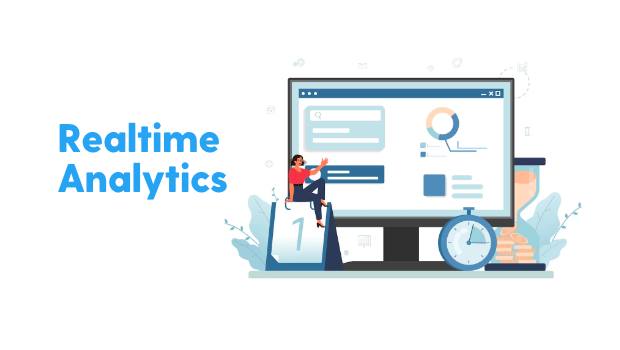
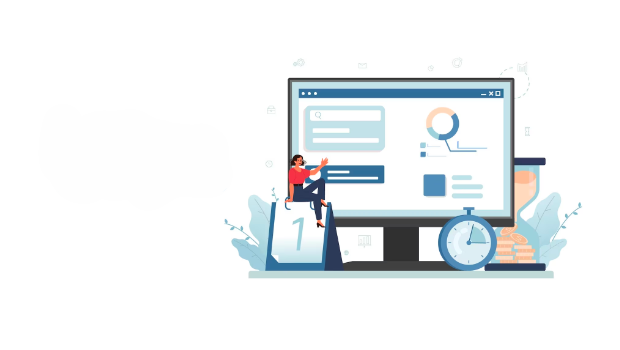
dashboard added along with homepage modification

Changed region(s): [[0.0919, 0.3429, 0.3677, 0.5714]]

diff --git a/src/components/Dashboard/Dashboard.css b/src/components/Dashboard/Dashboard.css
@@ -1,0 +1,123 @@
+.dashboard {
+  padding: 4rem 5%;
+  background: #f8f9ff;
+}
+
+.dashboard-header {
+  text-align: center;
+  margin-bottom: 2.5rem;
+}
+
+.dashboard-header h2 {
+  font-size: 2.2rem;
+  font-weight: 800;
+  color: #1a1a2e;
+  margin-bottom: 0.5rem;
+}
+
+.dashboard-header p {
+  color: #666;
+  font-size: 1.05rem;
+}
+
+.dashboard-cards {
+  display: grid;
+  grid-template-columns: repeat(auto-fit, minmax(240px, 1fr));
+  gap: 1.5rem;
+  margin-bottom: 2.5rem;
+}
+
+.dash-card {
+  display: flex;
+  align-items: center;
+  gap: 1.2rem;
+  padding: 2rem;
+  border-radius: 16px;
+  box-shadow: 0 4px 20px rgba(0, 0, 0, 0.08);
+  transition: transform 0.3s;
+}
+
+.dash-card:hover {
+  transform: translateY(-4px);
+}
+
+.dash-card.total {
+  background: linear-gradient(135deg, #667eea, #764ba2);
+  color: white;
+}
+
+.dash-card.fake {
+  background: linear-gradient(135deg, #ff6b6b, #ee0979);
+  color: white;
+}
+
+.dash-card.real {
+  background: linear-gradient(135deg, #11998e, #38ef7d);
+  color: white;
+}
+
+.dash-icon {
+  font-size: 2.8rem;
+}
+
+.dash-info {
+  display: flex;
+  flex-direction: column;
+  gap: 0.2rem;
+}
+
+.dash-label {
+  font-size: 0.95rem;
+  opacity: 0.9;
+  font-weight: 500;
+}
+
+.dash-value {
+  font-size: 2.2rem;
+  font-weight: 800;
+  line-height: 1;
+}
+
+.dash-percent {
+  font-size: 0.85rem;
+  opacity: 0.85;
+}
+
+.dashboard-bar {
+  background: white;
+  border-radius: 16px;
+  padding: 1.8rem 2rem;
+  box-shadow: 0 4px 20px rgba(0, 0, 0, 0.08);
+}
+
+.bar-label {
+  display: flex;
+  justify-content: space-between;
+  font-weight: 600;
+  color: #444;
+  margin-bottom: 0.8rem;
+  font-size: 0.95rem;
+}
+
+.bar-track {
+  display: flex;
+  height: 18px;
+  border-radius: 50px;
+  overflow: hidden;
+}
+
+.bar-fake {
+  background: linear-gradient(90deg, #ff6b6b, #ee0979);
+  transition: width 0.6s ease;
+}
+
+.bar-real {
+  background: linear-gradient(90deg, #11998e, #38ef7d);
+  transition: width 0.6s ease;
+}
+
+@media (max-width: 768px) {
+  .dashboard-cards {
+    grid-template-columns: 1fr;
+  }
+}

diff --git a/src/components/Dashboard/Dashboard.jsx b/src/components/Dashboard/Dashboard.jsx
@@ -1,0 +1,64 @@
+import './Dashboard.css'
+
+const stats = {
+  total: 1284,
+  fake: 743,
+  real: 541,
+}
+
+function Dashboard() {
+  const fakePercent = Math.round((stats.fake / stats.total) * 100)
+  const realPercent = 100 - fakePercent
+
+  return (
+    <>
+    <section className="dashboard">
+      <div className="dashboard-header">
+        <h2>Prediction Dashboard</h2>
+        <p>Overview of all news predictions analyzed by our AI</p>
+      </div>
+
+      <div className="dashboard-cards">
+        <div className="dash-card total">
+          <div className="dash-icon">📊</div>
+          <div className="dash-info">
+            <span className="dash-label">Total Predictions</span>
+            <span className="dash-value">{stats.total.toLocaleString()}</span>
+          </div>
+        </div>
+
+        <div className="dash-card fake">
+          <div className="dash-icon">🚨</div>
+          <div className="dash-info">
+            <span className="dash-label">Fake News</span>
+            <span className="dash-value">{stats.fake.toLocaleString()}</span>
+            <span className="dash-percent">{fakePercent}% of total</span>
+          </div>
+        </div>
+
+        <div className="dash-card real">
+          <div className="dash-icon">✅</div>
+          <div className="dash-info">
+            <span className="dash-label">Real News</span>
+            <span className="dash-value">{stats.real.toLocaleString()}</span>
+            <span className="dash-percent">{realPercent}% of total</span>
+          </div>
+        </div>
+      </div>
+
+      <div className="dashboard-bar">
+        <div className="bar-label">
+          <span>🚨 Fake {fakePercent}%</span>
+          <span>✅ Real {realPercent}%</span>
+        </div>
+        <div className="bar-track">
+          <div className="bar-fake" style={{ width: `${fakePercent}%` }} />
+          <div className="bar-real" style={{ width: `${realPercent}%` }} />
+        </div>
+      </div>
+    </section>
+    </>
+  )
+}
+
+export default Dashboard

diff --git a/src/pages/HomePage.css b/src/pages/HomePage.css
@@ -3,17 +3,31 @@
 }
 
 .hero {
+  position: relative;
   display: flex;
   align-items: center;
-  justify-content: space-between;
   padding: 5rem 5%;
-  gap: 3rem;
   color: white;
   min-height: 80vh;
+  overflow: hidden;
+}
+
+.hero-bg-image {
+  position: absolute;
+  top: 0;
+  right: 0;
+  width: 60%;
+  height: 100%;
+  object-fit: cover;
+  object-position: center;
+  mask-image: linear-gradient(to right, transparent 0%, rgba(0,0,0,0.6) 40%, black 100%);
+  -webkit-mask-image: linear-gradient(to right, transparent 0%, rgba(0,0,0,0.6) 40%, black 100%);
+  opacity: 0.9;
 }
 
 .hero-content {
-  flex: 1;
+  position: relative;
+  z-index: 1;
   max-width: 600px;
 }
 
@@ -102,28 +116,7 @@
 }
 
 .hero-visual {
-  flex: 1;
-  display: flex;
-  align-items: center;
-  justify-content: center;
-}
-
-.visual-card {
-  background: rgba(255, 255, 255, 0.15);
-  backdrop-filter: blur(20px);
-  padding: 0;
-  border-radius: 20px;
-  border: 1px solid rgba(255, 255, 255, 0.2);
-  box-shadow: 0 20px 60px rgba(0, 0, 0, 0.3);
-  overflow: hidden;
-  width: fit-content;
-  max-width: 500px;
-}
-
-.hero-image {
-  width: 100%;
-  height: auto;
-  display: block;
+  display: none;
 }
 
 .visual-icon {

diff --git a/src/pages/HomePage.jsx b/src/pages/HomePage.jsx
@@ -9,6 +9,7 @@ function HomePage() {
   return (
     <div className="homepage">
       <section className="hero">
+        <img src={heroImage} alt="" className="hero-bg-image" />
         <div className="hero-content">
           <h1>
             Verify News with <span className="hero-highlight">Confidence</span>
@@ -39,12 +40,6 @@ function HomePage() {
               <h3>100+</h3>
               <p>Active Users</p>
             </div>
-          </div>
-        </div>
-        
-        <div className="hero-visual">
-          <div className="visual-card">
-            <img src={heroImage} alt="News Detection" className="hero-image" />
           </div>
         </div>
       </section>

diff --git a/src/App.jsx b/src/App.jsx
@@ -3,6 +3,7 @@ import Layout from './components/Layout/Layout';
 import HomePage from './pages/HomePage';
 import Login from './pages/Login';
 import Signup from './pages/Signup';
+import Dashboard from './components/Dashboard/Dashboard';
 import './App.css';
 
 function App() {
@@ -13,6 +14,7 @@ function App() {
           <Route index element={<HomePage />} />
           <Route path="login" element={<Login />} />
           <Route path="signup" element={<Signup />} />
+          <Route path='dashboard' element={<Dashboard/>}/>
         </Route>
       </Routes>
     </Router>
